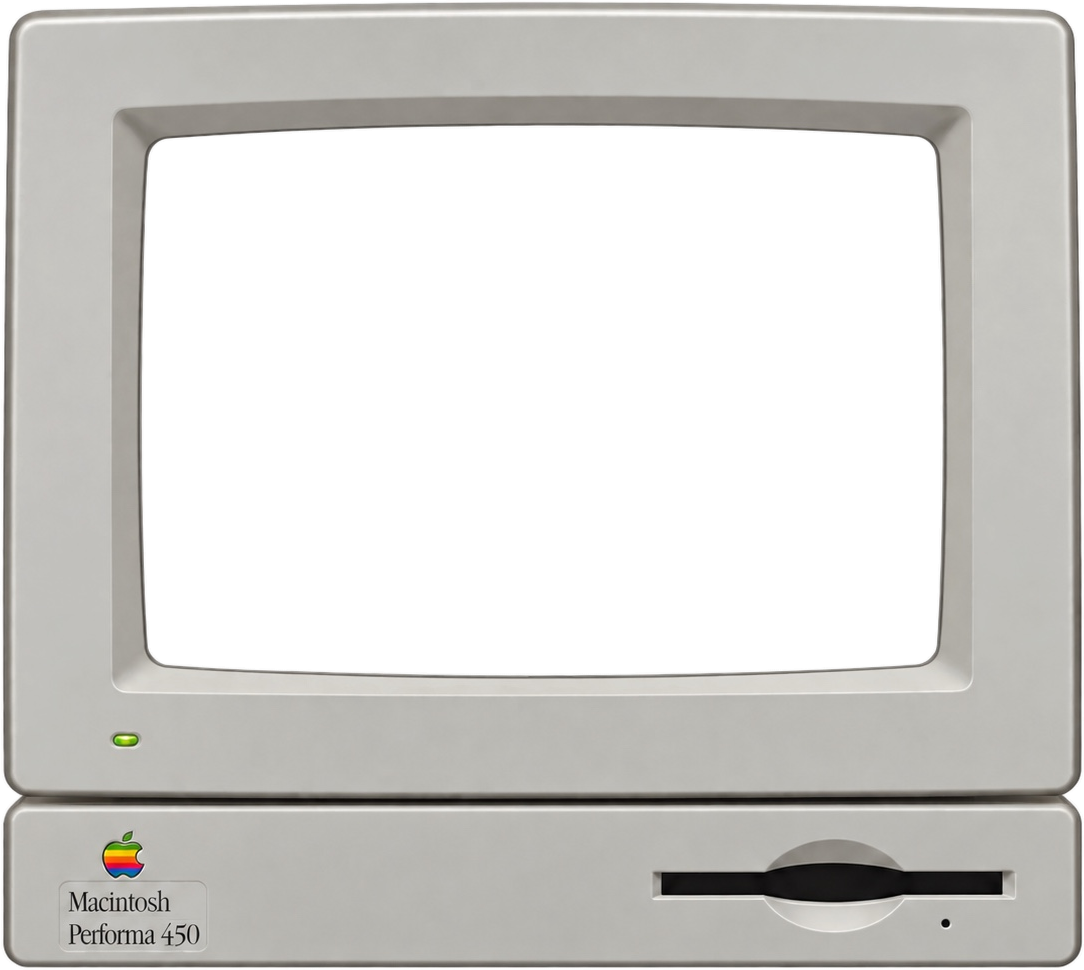
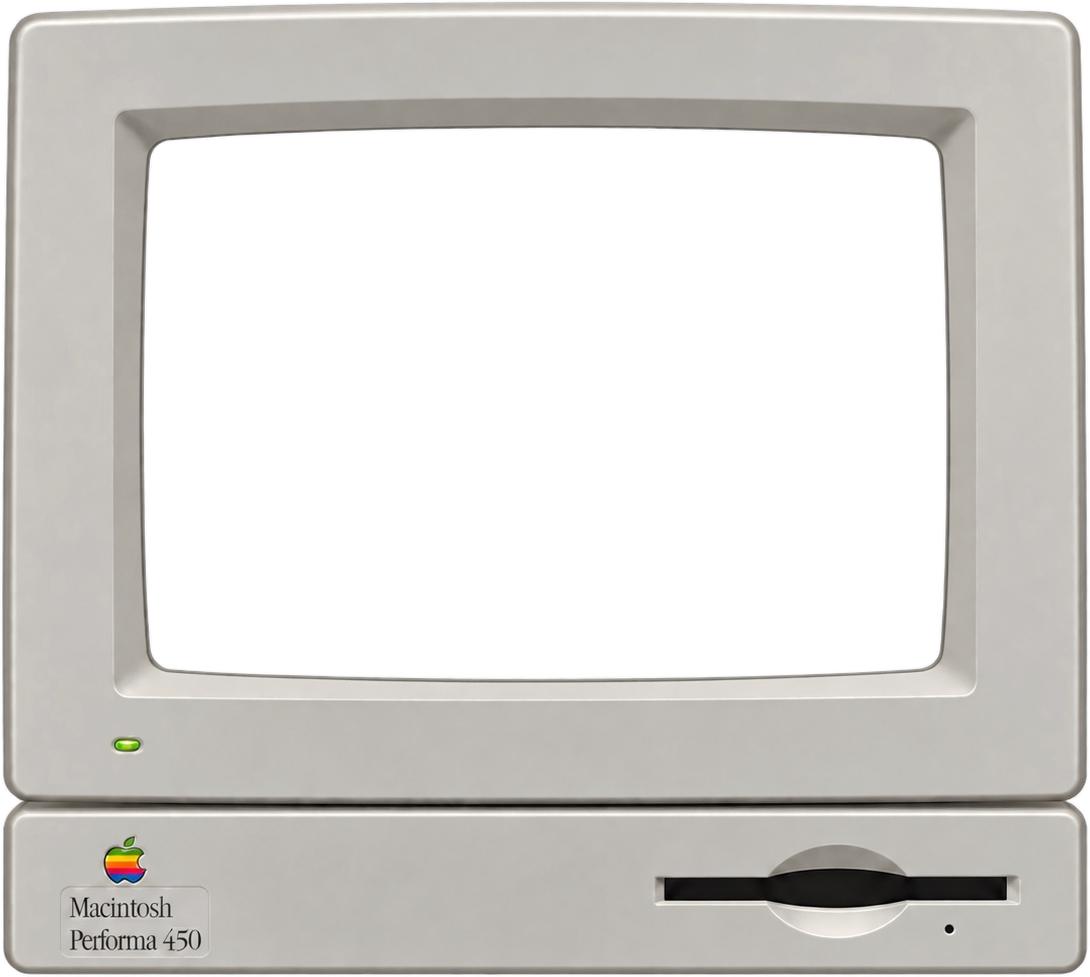
Use the revised Performa 450 render (#168)
Replaces the render from #167 with the version the user sent as its
replacement. Keyed the same way: white background and screen glass to
alpha, rims unmixed against the bezel, and the (now fainter) glass
reflection kept as a translucent white haze.

The alpha-cropped art is 1090x977, with the glass aperture at
(144,128) 802x551 and the 1.6 tank letterboxed inside at 802x501.

Claude-Session: https://claude.ai/code/session_012YUykh83gZ6csh6J2AHSZk

diff --git a/web/machines.ts b/web/machines.ts
@@ -126,11 +126,11 @@ const plus: Machine = {
 const performa: Machine = {
   id: "performa", name: "Macintosh Performa 450",
   blurb: "A pizza-box desktop under an Apple RGB monitor.",
-  vbW: 1084, vbH: 970,
-  hole: { x: 142, y: 126, w: 801, h: 549, r: 0 },
-  sx: 142, sy: 150, sw: 801, sh: 501,
+  vbW: 1090, vbH: 977,
+  hole: { x: 144, y: 128, w: 802, h: 551, r: 0 },
+  sx: 144, sy: 153, sw: 802, sh: 501,
   image: "assets/performa-450.png",
-  shape: [{ x: 0, y: 0, w: 1084, h: 970, r: 0 }],
+  shape: [{ x: 0, y: 0, w: 1090, h: 977, r: 0 }],
   svg: "",
 };
 
